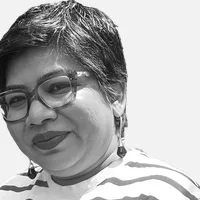
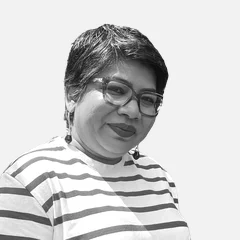
About orbit: wider, centred portrait in the circle
Claude-Session: https://claude.ai/code/session_0167dUSUDkrXBENQypBVhdM8

diff --git a/about/index.html b/about/index.html
@@ -6,11 +6,11 @@
 <title>About | Suchetana Bauri</title>
 <meta name="description" content="17+ years of editorial, internal and change communication, now combined with AI enablement, digital marketing and UX & UI design.">
 <link rel="canonical" href="https://suchetanabauri.com/about/">
-<meta property="og:type" content="website"><meta property="og:title" content="About | Suchetana Bauri"><meta property="og:description" content="17+ years of editorial, internal and change communication, now combined with AI enablement, digital marketing and UX & UI design."><meta property="og:url" content="https://suchetanabauri.com/about/"><meta property="og:image" content="https://suchetanabauri.com/assets/img/about-hero.webp?v=8">
+<meta property="og:type" content="website"><meta property="og:title" content="About | Suchetana Bauri"><meta property="og:description" content="17+ years of editorial, internal and change communication, now combined with AI enablement, digital marketing and UX & UI design."><meta property="og:url" content="https://suchetanabauri.com/about/"><meta property="og:image" content="https://suchetanabauri.com/assets/img/about-hero.webp?v=9">
 <meta name="twitter:card" content="summary_large_image">
 <meta name="theme-color" content="#EBEBEB">
 <link rel="preconnect" href="https://fonts.googleapis.com"><link rel="preconnect" href="https://fonts.gstatic.com" crossorigin><link href="https://fonts.googleapis.com/css2?family=Hind+Siliguri:wght@600&family=Instrument+Serif:ital@0;1&family=Inter:wght@400;500;600&display=swap" rel="stylesheet">
-<link rel="stylesheet" href="/assets/css/site.css?v=8">
+<link rel="stylesheet" href="/assets/css/site.css?v=9">
 </head>
 <body>
 <div class="sbh" id="top">
@@ -25,7 +25,7 @@
 
 <!-- ============ ABOUT HERO ============ -->
 <section class="ab-hero wrap">
-  <div class="ab-photo rv"><img src="/assets/img/about-hero.webp?v=8" alt="Suchetana Bauri" width="1000" height="1499" fetchpriority="high"></div>
+  <div class="ab-photo rv"><img src="/assets/img/about-hero.webp?v=9" alt="Suchetana Bauri" width="1000" height="1499" fetchpriority="high"></div>
   <div class="ab-intro rv">
     <span class="tag">About me</span>
     <h1 class="ab-h1">Hi, I’m <em>Suchetana!</em></h1>
@@ -102,7 +102,7 @@
         <span class="o-ring r1"></span><span class="o-ring r2"></span>
         <div class="o-spin s1"><b style="left:24%;top:5%"><svg aria-hidden="true" focusable="false" xmlns="http://www.w3.org/2000/svg" viewBox="0 0 24 24" fill="none" stroke="currentColor" stroke-width="2" stroke-linecap="round" stroke-linejoin="round" > <path d="M13 7 8.7 2.7a2.41 2.41 0 0 0-3.4 0L2.7 5.3a2.41 2.41 0 0 0 0 3.4L7 13" /> <path d="m8 6 2-2" /> <path d="m18 16 2-2" /> <path d="m17 11 4.3 4.3c.94.94.94 2.46 0 3.4l-2.6 2.6c-.94.94-2.46.94-3.4 0L11 17" /> <path d="M21.174 6.812a1 1 0 0 0-3.986-3.987L3.842 16.174a2 2 0 0 0-.5.83l-1.321 4.352a.5.5 0 0 0 .623.622l4.353-1.32a2 2 0 0 0 .83-.497z" /> <path d="m15 5 4 4" /> </svg></b><b style="left:93%;top:28%"><svg aria-hidden="true" focusable="false" xmlns="http://www.w3.org/2000/svg" viewBox="0 0 24 24" fill="none" stroke="currentColor" stroke-width="2" stroke-linecap="round" stroke-linejoin="round" > <path d="M9.937 15.5A2 2 0 0 0 8.5 14.063l-6.135-1.582a.5.5 0 0 1 0-.962L8.5 9.936A2 2 0 0 0 9.937 8.5l1.582-6.135a.5.5 0 0 1 .963 0L14.063 8.5A2 2 0 0 0 15.5 9.937l6.135 1.581a.5.5 0 0 1 0 .964L15.5 14.063a2 2 0 0 0-1.437 1.437l-1.582 6.135a.5.5 0 0 1-.963 0z" /> <path d="M20 3v4" /> <path d="M22 5h-4" /> <path d="M4 17v2" /> <path d="M5 18H3" /> </svg></b><b style="left:6%;top:72%"><svg aria-hidden="true" focusable="false" xmlns="http://www.w3.org/2000/svg" viewBox="0 0 24 24" fill="none" stroke="currentColor" stroke-width="2" stroke-linecap="round" stroke-linejoin="round" > <rect width="18" height="7" x="3" y="3" rx="1" /> <rect width="9" height="7" x="3" y="14" rx="1" /> <rect width="5" height="7" x="16" y="14" rx="1" /> </svg></b><b style="left:73%;top:95%"><svg aria-hidden="true" focusable="false" xmlns="http://www.w3.org/2000/svg" viewBox="0 0 24 24" fill="none" stroke="currentColor" stroke-width="2" stroke-linecap="round" stroke-linejoin="round" > <path d="M2 3h20" /> <path d="M21 3v11a2 2 0 0 1-2 2H5a2 2 0 0 1-2-2V3" /> <path d="m7 21 5-5 5 5" /> </svg></b></div>
         <div class="o-spin s2"><b class="sm" style="left:42%;top:19%"><svg aria-hidden="true" focusable="false" xmlns="http://www.w3.org/2000/svg" viewBox="0 0 24 24" fill="none" stroke="currentColor" stroke-width="2" stroke-linecap="round" stroke-linejoin="round" > <path d="M21 15a2 2 0 0 1-2 2H7l-4 4V5a2 2 0 0 1 2-2h14a2 2 0 0 1 2 2z" /> </svg></b><b class="sm" style="left:59%;top:81%"><svg aria-hidden="true" focusable="false" xmlns="http://www.w3.org/2000/svg" viewBox="0 0 24 24" fill="none" stroke="currentColor" stroke-width="2" stroke-linecap="round" stroke-linejoin="round" > <path d="M13 17V9" /> <path d="M18 17V5" /> <path d="M3 3v16a2 2 0 0 0 2 2h16" /> <path d="M8 17v-3" /> </svg></b></div>
-        <img class="o-face" src="/assets/img/about-orbit-face.webp" alt="" loading="lazy">
+        <img class="o-face" src="/assets/img/about-orbit-face.webp?v=9" alt="" loading="lazy">
       </div>
       <div class="strip tools-strip" aria-label="Tools I use: Figma, WordPress, Canva, PowerPoint, SharePoint, Microsoft Teams, HubSpot, Adobe Acrobat, Trello, ChatGPT, Claude, Microsoft Copilot, Perplexity, HTML and CSS"><div class="track" aria-hidden="true"><span>Figma</span><span>WordPress</span><span>Canva</span><span>PowerPoint</span><span>SharePoint</span><span>Microsoft Teams</span><span>HubSpot</span><span>Adobe Acrobat</span><span>Trello</span><span>ChatGPT</span><span>Claude</span><span>Microsoft Copilot</span><span>Perplexity</span><span>HTML &amp; CSS</span><span>Figma</span><span>WordPress</span><span>Canva</span><span>PowerPoint</span><span>SharePoint</span><span>Microsoft Teams</span><span>HubSpot</span><span>Adobe Acrobat</span><span>Trello</span><span>ChatGPT</span><span>Claude</span><span>Microsoft Copilot</span><span>Perplexity</span><span>HTML &amp; CSS</span></div></div>
     </div>
@@ -182,6 +182,6 @@
 
 </div>
 
-<script src="/assets/js/site.js?v=8" defer></script>
+<script src="/assets/js/site.js?v=9" defer></script>
 </body>
 </html>

diff --git a/index.html b/index.html
@@ -10,7 +10,7 @@
 <meta name="twitter:card" content="summary_large_image">
 <meta name="theme-color" content="#EBEBEB">
 <link rel="preconnect" href="https://fonts.googleapis.com"><link rel="preconnect" href="https://fonts.gstatic.com" crossorigin><link href="https://fonts.googleapis.com/css2?family=Hind+Siliguri:wght@600&family=Instrument+Serif:ital@0;1&family=Inter:wght@400;500;600&display=swap" rel="stylesheet">
-<link rel="stylesheet" href="/assets/css/site.css?v=8">
+<link rel="stylesheet" href="/assets/css/site.css?v=9">
 </head>
 <body>
 <div class="sbh" id="top">
@@ -267,6 +267,6 @@
 
 </div>
 
-<script src="/assets/js/site.js?v=8" defer></script>
+<script src="/assets/js/site.js?v=9" defer></script>
 </body>
 </html>

diff --git a/work/index.html b/work/index.html
@@ -10,7 +10,7 @@
 <meta name="twitter:card" content="summary_large_image">
 <meta name="theme-color" content="#EBEBEB">
 <link rel="preconnect" href="https://fonts.googleapis.com"><link rel="preconnect" href="https://fonts.gstatic.com" crossorigin><link href="https://fonts.googleapis.com/css2?family=Hind+Siliguri:wght@600&family=Instrument+Serif:ital@0;1&family=Inter:wght@400;500;600&display=swap" rel="stylesheet">
-<link rel="stylesheet" href="/assets/css/site.css?v=8">
+<link rel="stylesheet" href="/assets/css/site.css?v=9">
 </head>
 <body>
 <div class="sbh" id="top">
@@ -106,6 +106,6 @@
 
 </div>
 
-<script src="/assets/js/site.js?v=8" defer></script>
+<script src="/assets/js/site.js?v=9" defer></script>
 </body>
 </html>

diff --git a/blog/index.html b/blog/index.html
@@ -10,7 +10,7 @@
 <meta name="twitter:card" content="summary_large_image">
 <meta name="theme-color" content="#EBEBEB">
 <link rel="preconnect" href="https://fonts.googleapis.com"><link rel="preconnect" href="https://fonts.gstatic.com" crossorigin><link href="https://fonts.googleapis.com/css2?family=Hind+Siliguri:wght@600&family=Instrument+Serif:ital@0;1&family=Inter:wght@400;500;600&display=swap" rel="stylesheet">
-<link rel="stylesheet" href="/assets/css/site.css?v=8">
+<link rel="stylesheet" href="/assets/css/site.css?v=9">
 </head>
 <body>
 <div class="sbh" id="top">
@@ -77,6 +77,6 @@
 
 </div>
 
-<script src="/assets/js/site.js?v=8" defer></script>
+<script src="/assets/js/site.js?v=9" defer></script>
 </body>
 </html>
